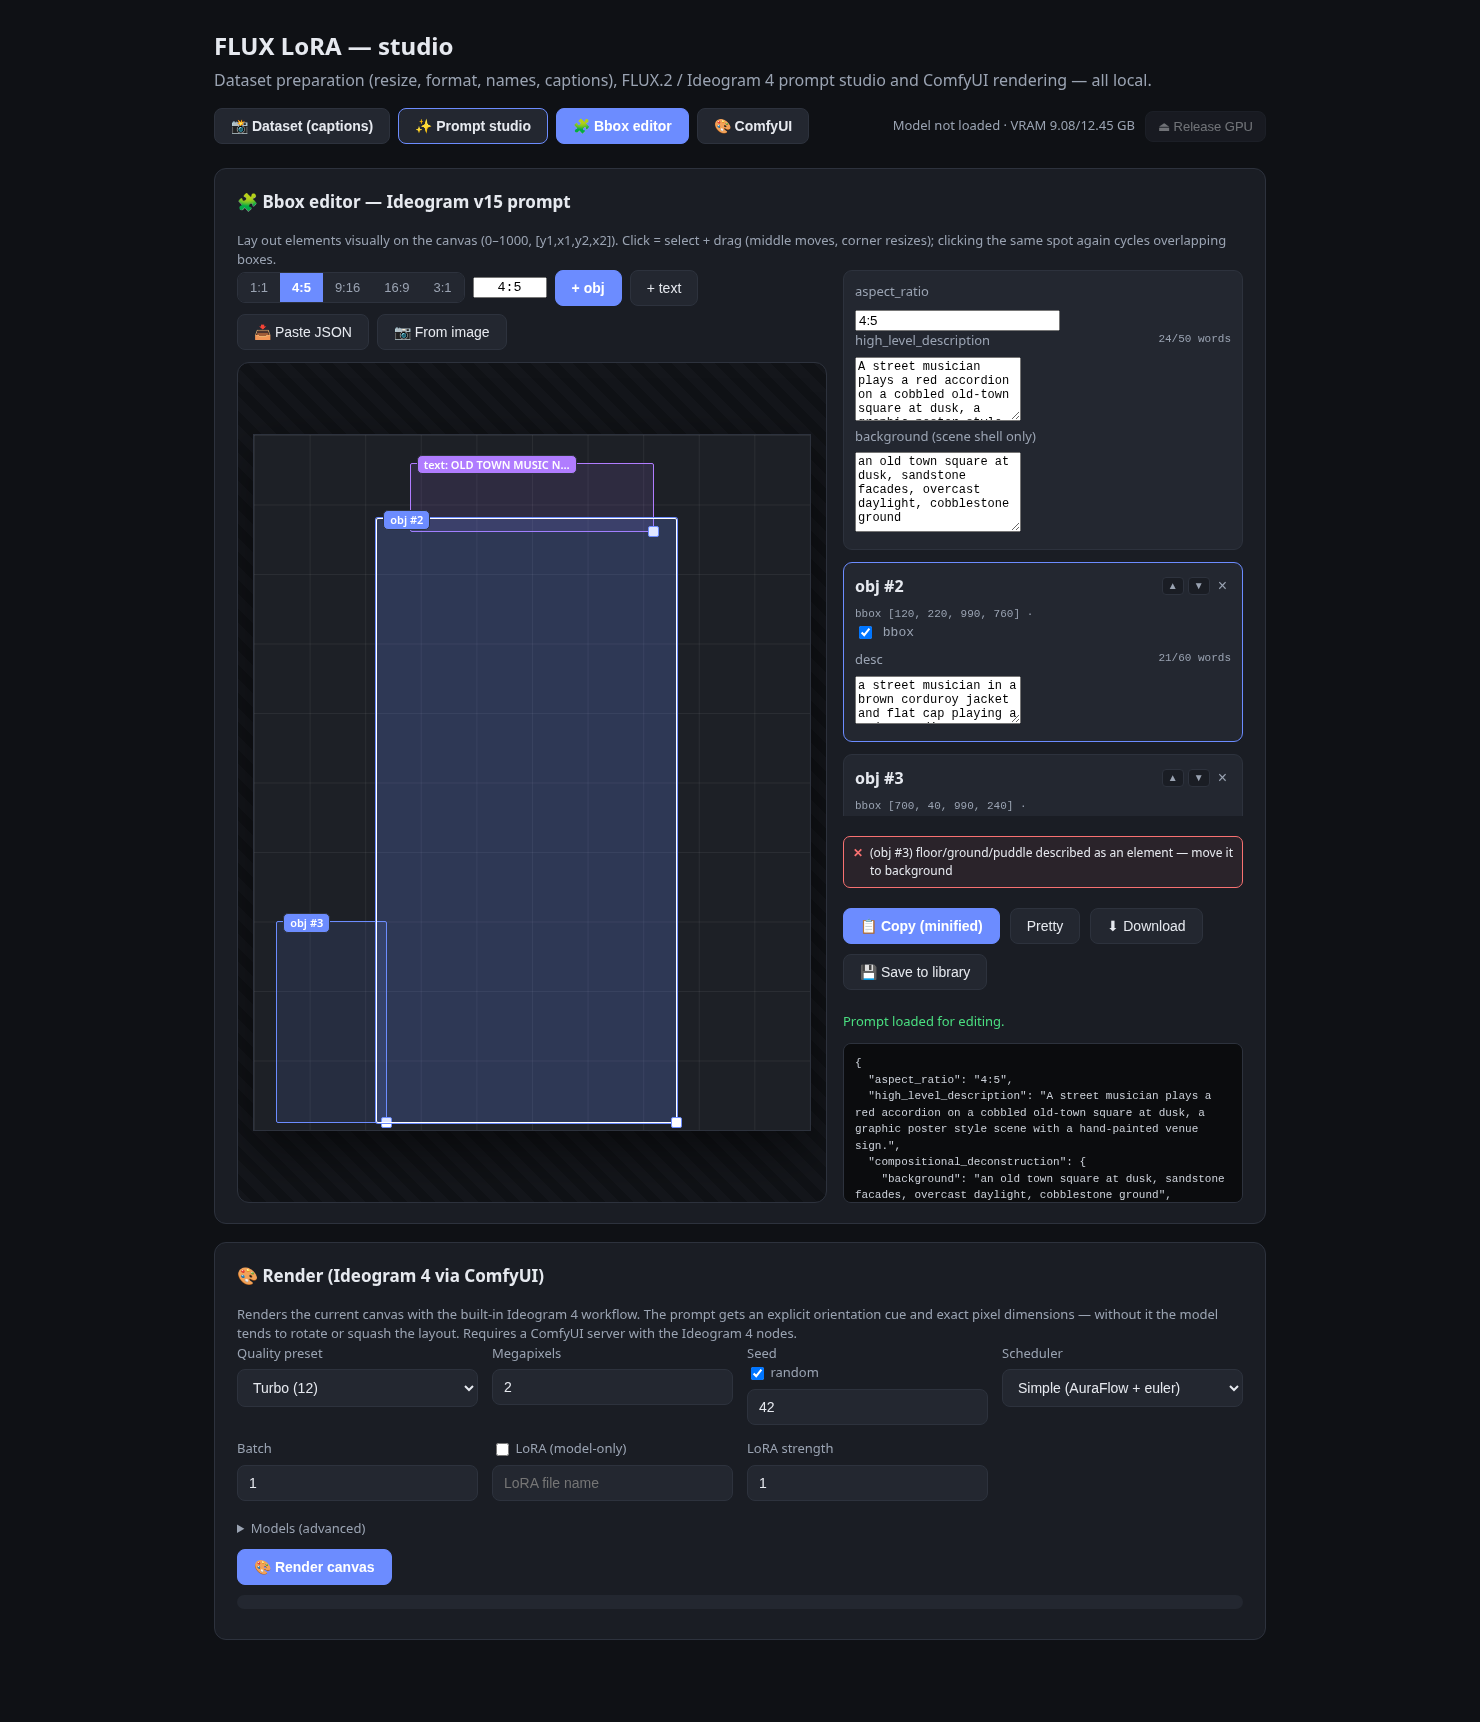
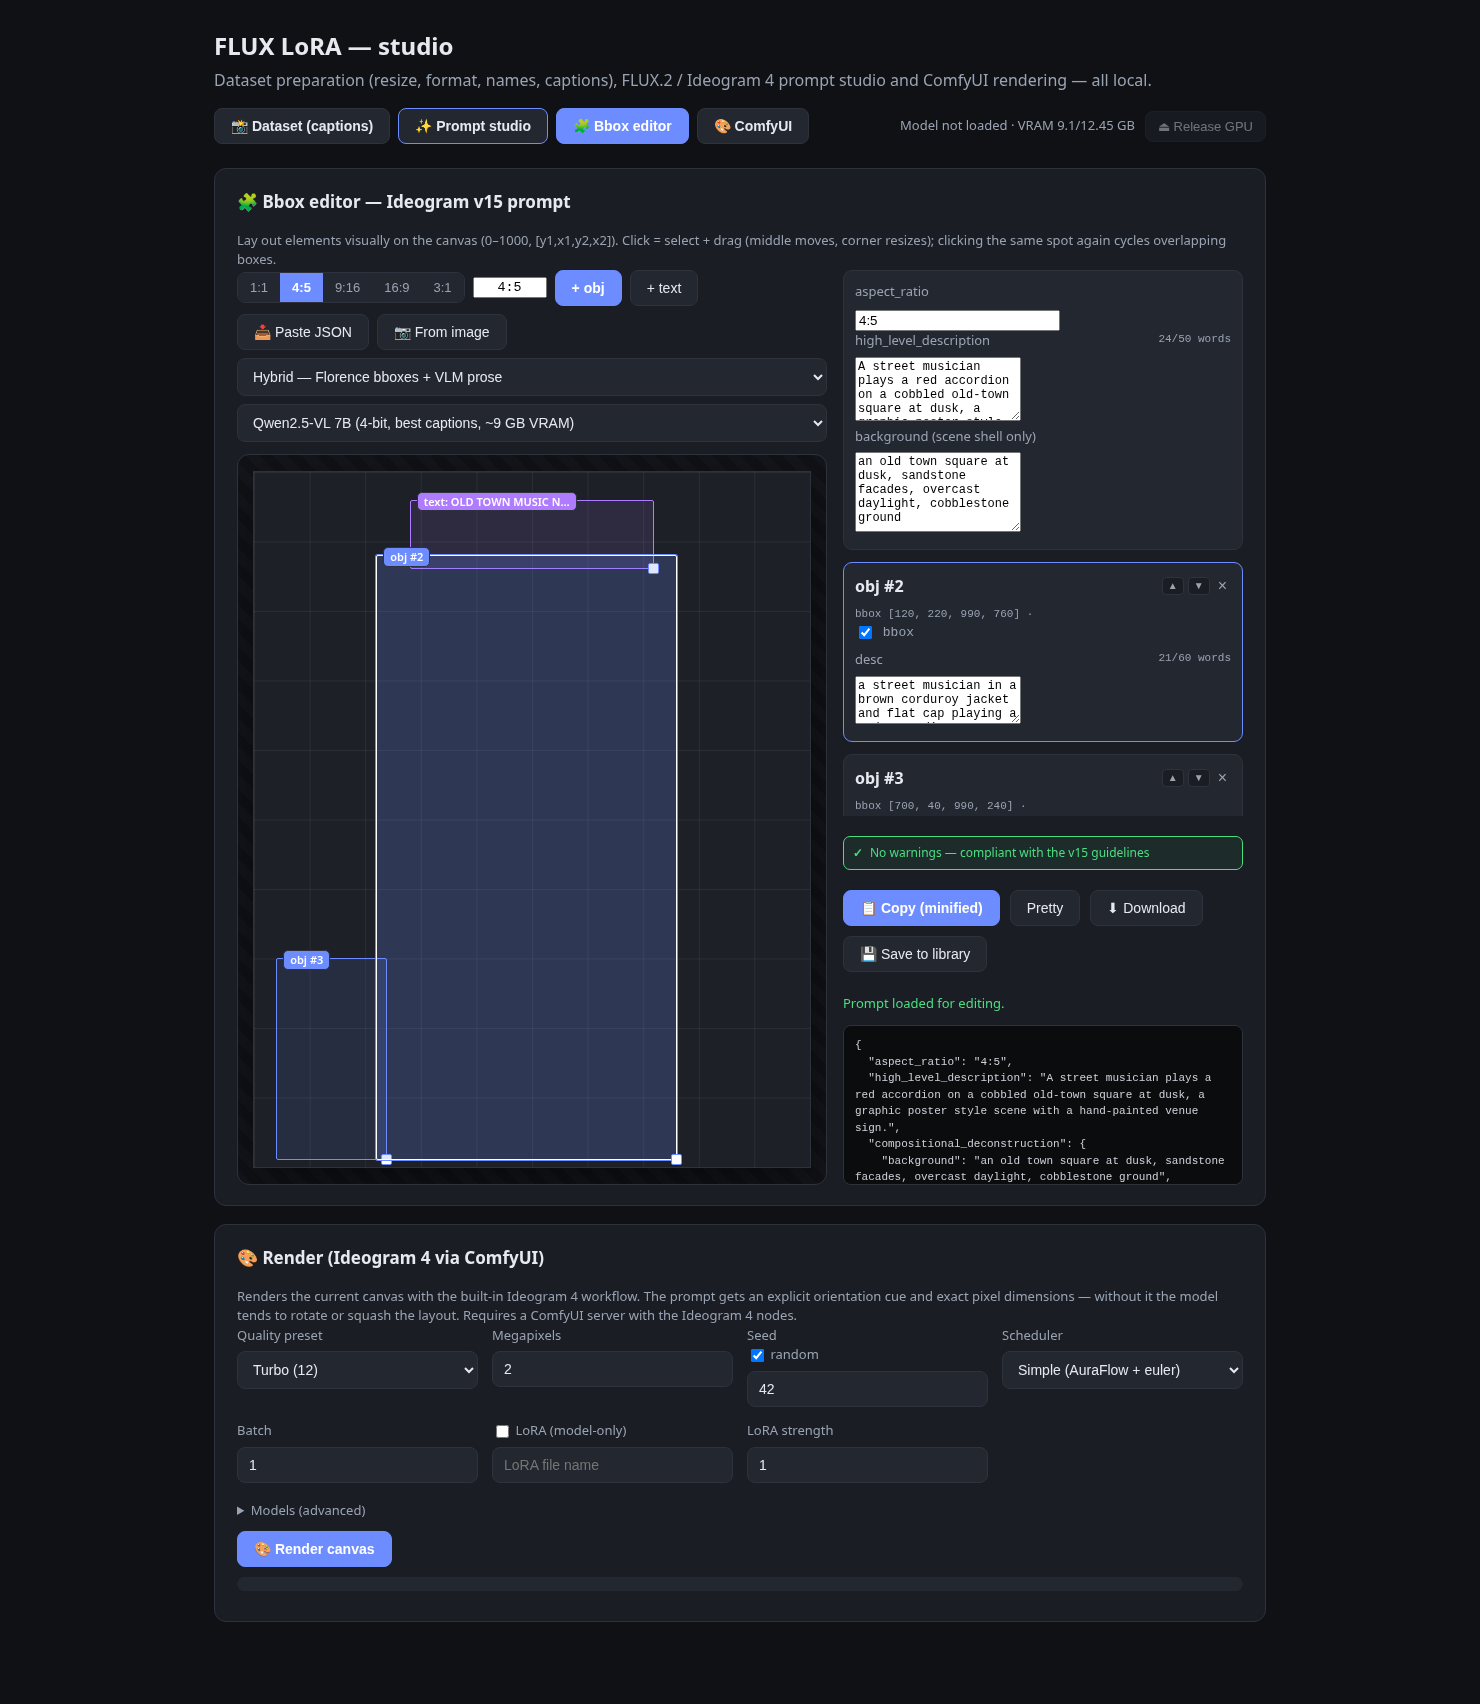
docs: README covers the three image-analysis engines; fresh screenshots
- README: engine comparison table for '📷 From image' (Florence-2 / VLM
  only / Hybrid), updated bbox-editor feature summary.
- Screenshots regenerated; the bbox editor one shows the hybrid engine
  with the vision-model picker.

diff --git a/README.md b/README.md
@@ -23,11 +23,13 @@ prompting:
   resize element boxes on an aspect-ratio-true 0–1000 grid, edit obj/text
   cards with live word counters and a live v15 linter, import old/broken/
   double-encoded JSONs (they get unwrapped and converted), or start from a
-  **reference photo** — **Florence-2** drafts the scene caption, real object
-  bboxes and OCR text regions. The current canvas renders directly on your
-  ComfyUI server with a **built-in Ideogram 4 workflow** (quality presets,
-  both scheduler variants, optional LoRA), with an explicit orientation cue
-  that stops the model from rotating or squashing the layout.
+  **reference photo** with a choice of three analysis engines: **Florence-2**
+  (fast, measured bboxes + OCR), **VLM only** (Qwen2.5-VL or any LM Studio
+  vision model drafts the whole JSON) or **Hybrid** (Florence's measured
+  bboxes + the VLM's rich v15 prose). The current canvas renders directly on
+  your ComfyUI server with a **built-in Ideogram 4 workflow** (quality
+  presets, both scheduler variants, optional LoRA), with an explicit
+  orientation cue that stops the model from rotating or squashing the layout.
 - **🎨 ComfyUI** — generic ComfyUI integration: LoRA testing with any uploaded
   workflow, reference-image batches, a node/parameter workflow editor with a
   graph view and a SQLite workflow library, plus a persistent gallery.
@@ -111,10 +113,23 @@ holds the `aspect_ratio` / HLD / background fields and one card per element
 with live word counters (50 for the HLD, 60 per desc) and the v15 linter.
 Get a starting point three ways: **📥 Paste JSON** (any format — legacy
 `style_description` schemas, `caption`/`data` wrappers and double-encoded
-JSONs are unwrapped and converted), **📷 From image** (Florence-2 drafts
-caption + real bboxes + OCR), or **🧩 Edit on canvas** from the studio result
-or any library entry. Then **💾 Save to library**, copy/download the JSON, or
-**🎨 Render canvas** straight on ComfyUI.
+JSONs are unwrapped and converted), **📷 From image**, or **🧩 Edit on
+canvas** from the studio result or any library entry. Then **💾 Save to
+library**, copy/download the JSON, or **🎨 Render canvas** straight on
+ComfyUI.
+
+**From image** offers three analysis engines:
+
+| Engine | Bboxes | Descriptions | Cost |
+|--------|--------|--------------|------|
+| **Florence-2** (default) | measured (object detection + OCR) | terse labels | ~1 GB VRAM, fast |
+| **VLM only** | estimated by the vision model | full v15 prose | the chosen VLM |
+| **Hybrid** | measured by Florence-2, kept verbatim | rewritten by the VLM to full v15 prose | both models |
+
+The VLM is picked from the same list as the captioner/studio: local
+Qwen2.5-VL (3B/7B), custom model folders, or any vision model served by
+LM Studio. Hybrid gives the best drafts: real geometry and literal OCR text
+with identity-first 30–60-word descriptions.
 
 ### Ideogram 4 rendering
 
